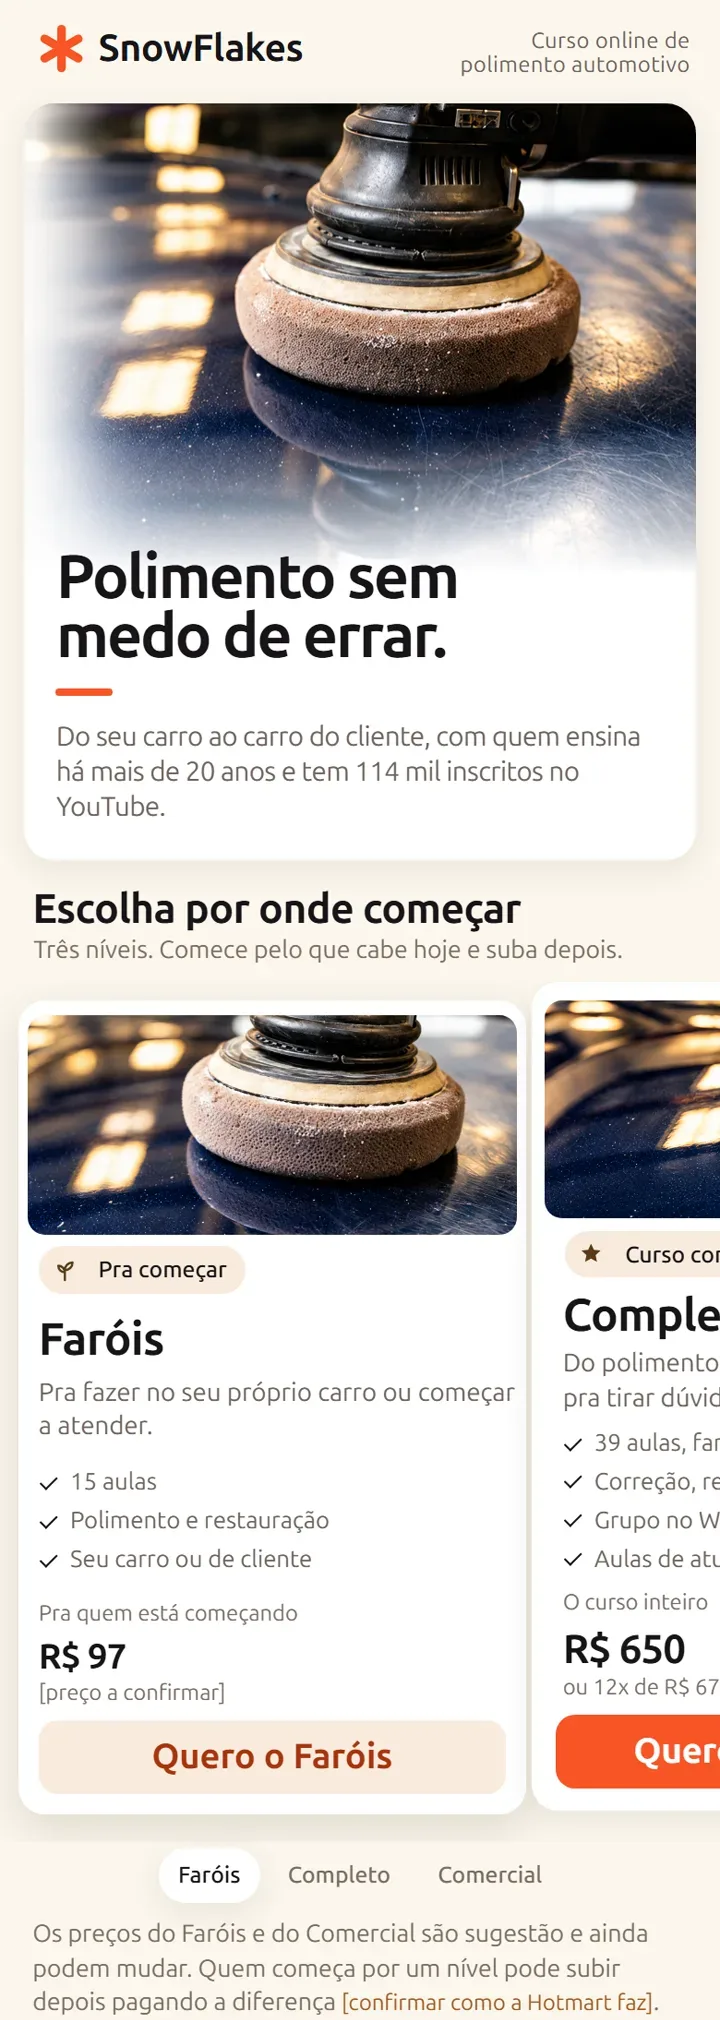
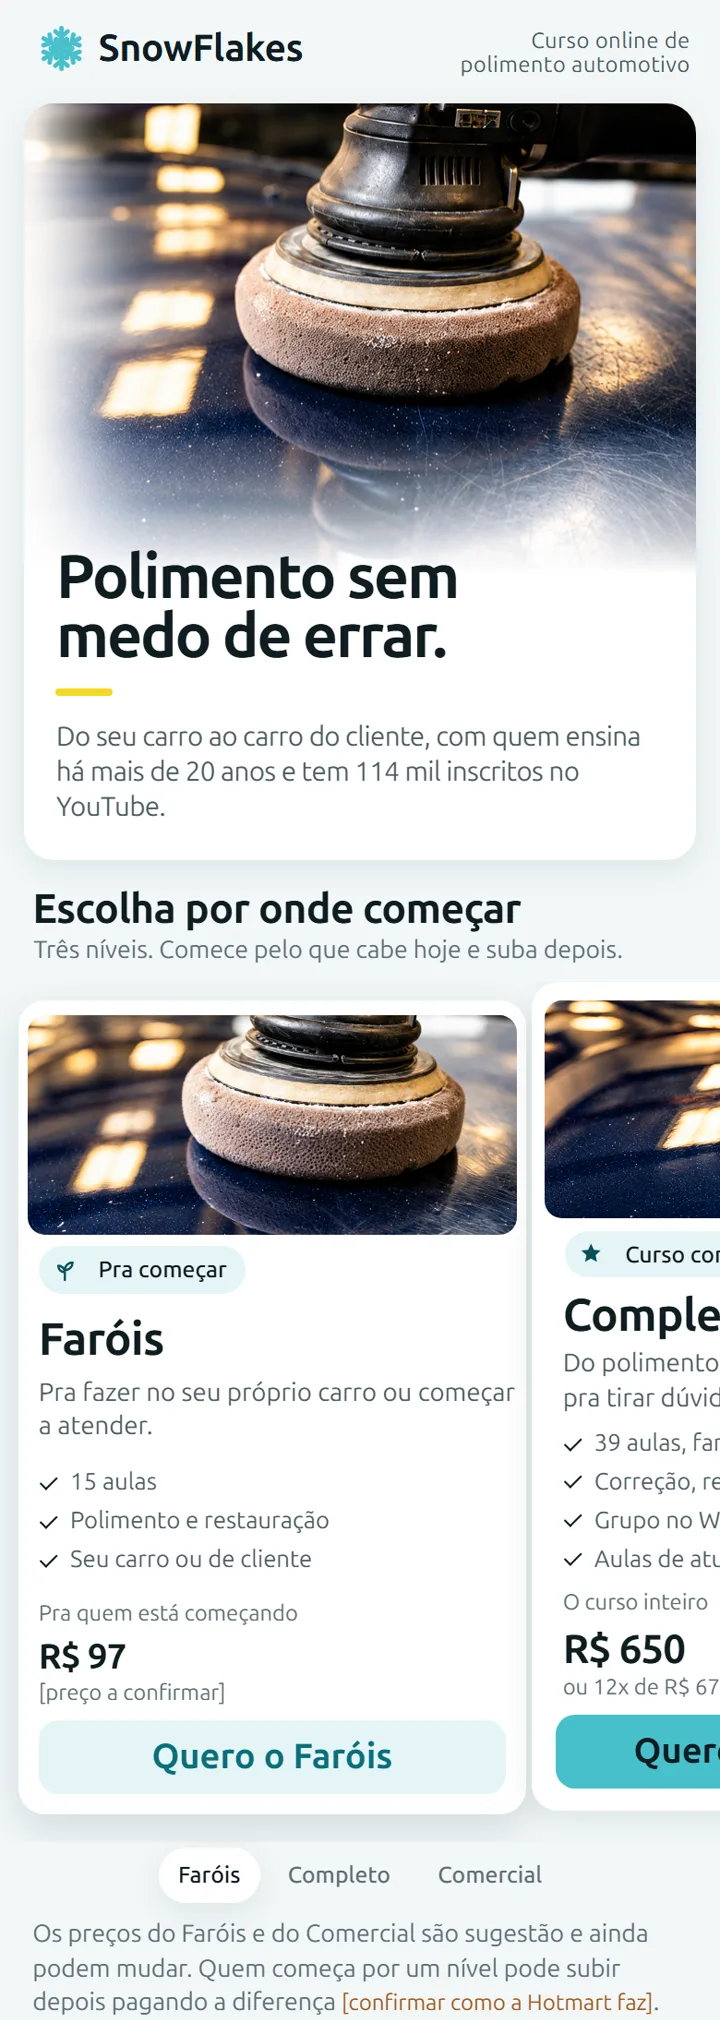
Snowflakes: plano com a pagina nas cores do canal e o pra quem por nivel (27/10)

diff --git a/public/snowflakes/plano/index.html b/public/snowflakes/plano/index.html
@@ -383,7 +383,7 @@ a:focus-visible { outline: 2px solid var(--accent); outline-offset: 2px; }
     <div class="rail"><span class="mono">Frente 2</span><span class="n">semanas 1 e 2</span></div>
     <div class="body">
       <h2>Uma página nova pro curso, com o checkout da Hotmart</h2>
-      <p>Uma página com a marca SnowFlakes, feita pra quem chega pelo celular, com medo de errar e com o dinheiro contado. Os três níveis aparecem logo no começo, cada um com o preço e o botão do checkout. O pagamento continua pela Hotmart, com a garantia de 7 dias.</p>
+      <p>Uma página com a marca SnowFlakes e as cores do canal, feita pra quem chega pelo celular, com medo de errar e com o dinheiro contado. Os três níveis aparecem logo no começo, cada um com o preço e o botão do checkout. O pagamento continua pela Hotmart, com a garantia de 7 dias.</p>
       <div class="preview-grid">
         <a class="lp-link" href="https://snowflakes-curso.vercel.app/" target="_blank" rel="noopener" aria-label="Abrir a prévia da página no navegador">
           <span class="lp-tela"><img src="pagina-previa.webp" width="720" height="2020" alt="Prévia da página no celular: marca SnowFlakes, título Polimento sem medo de errar, e a fileira dos três níveis com o Faróis na frente, R$ 97 e o botão Quero o Faróis"></span>
@@ -394,7 +394,7 @@ a:focus-visible { outline: 2px solid var(--accent); outline-offset: 2px; }
           <div class="parts">
             <div><p><strong>A promessa honesta.</strong> Polimento sem medo de errar, do seu carro ao carro do cliente. Nada de "fique rico".</p></div>
             <div><p><strong>Os três níveis, logo no começo.</strong> Lado a lado, cada um com o que ensina, o preço e o botão do checkout dele. A barra de baixo vira a compra do nível que está na tela.</p></div>
-            <div><p><strong>Pra quem é, e pra quem não é.</strong> De quem só quer cuidar do próprio carro a quem vai atender cliente. Quem procura dinheiro rápido sem praticar não é o aluno, e dizer isso dá confiança pra quem é.</p></div>
+            <div><p><strong>É pra você se, nível por nível.</strong> Logo abaixo dos cartões, uma aba pra cada nível: o Faróis pra quem quer cuidar do próprio carro ou começar pequeno, o Comercial pra quem vai atender, o Completo pra quem quer o serviço inteiro e o grupo. Cada um diz também pra quem não é e qual nível resolve. Em nenhum é pra quem procura dinheiro rápido sem praticar.</p></div>
             <div><p><strong>Quem ensina.</strong> Os anos de bancada, o canal desde 2010 e os 114 mil inscritos. É a resposta pro medo de golpe.</p></div>
             <div><p><strong>As aulas, na ordem do serviço.</strong> Equipamento, ler a pintura, polir, corrigir, proteger e faróis, cada etapa dizendo em que nível está.</p></div>
             <div><p><strong>Os dois medos de quem começa.</strong> Estragar a pintura, e achar que o grátis do YouTube basta.</p></div>
@@ -405,7 +405,7 @@ a:focus-visible { outline: 2px solid var(--accent); outline-offset: 2px; }
         </div>
       </div>
 
-      <p class="small">A página já está no ar como prévia, fora do Google. As fotos são ilustrativas, feitas só pra prévia: na versão final entram fotos reais de vocês. O que aparece entre [colchetes] na página é o que falta confirmar com vocês (preço dos níveis novos, link de checkout, os anos de ensino, fotos e depoimentos).</p>
+      <p class="small">A página já está no ar como prévia, fora do Google. As fotos são ilustrativas, feitas só pra prévia: na versão final entram fotos reais de vocês, e o logo oficial no lugar do floco. O que aparece entre [colchetes] na página é o que falta confirmar com vocês (preço dos níveis novos, link de checkout, os anos de ensino, fotos e depoimentos).</p>
       <p class="small">Se a Hotmart demorar pra aprovar o nível do meio, a página sobe com Faróis e Completo, que já existem, e ganha o meio assim que ele sair.</p>
     </div>
   </section>
